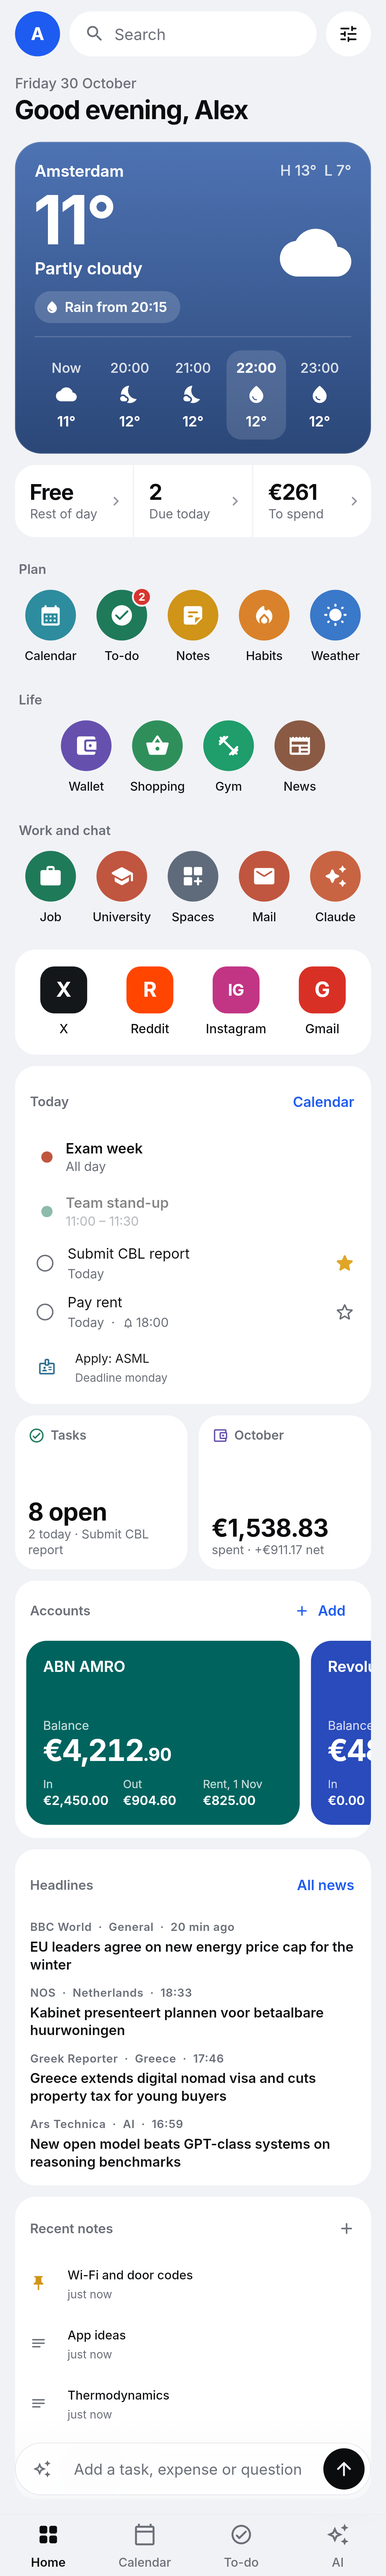
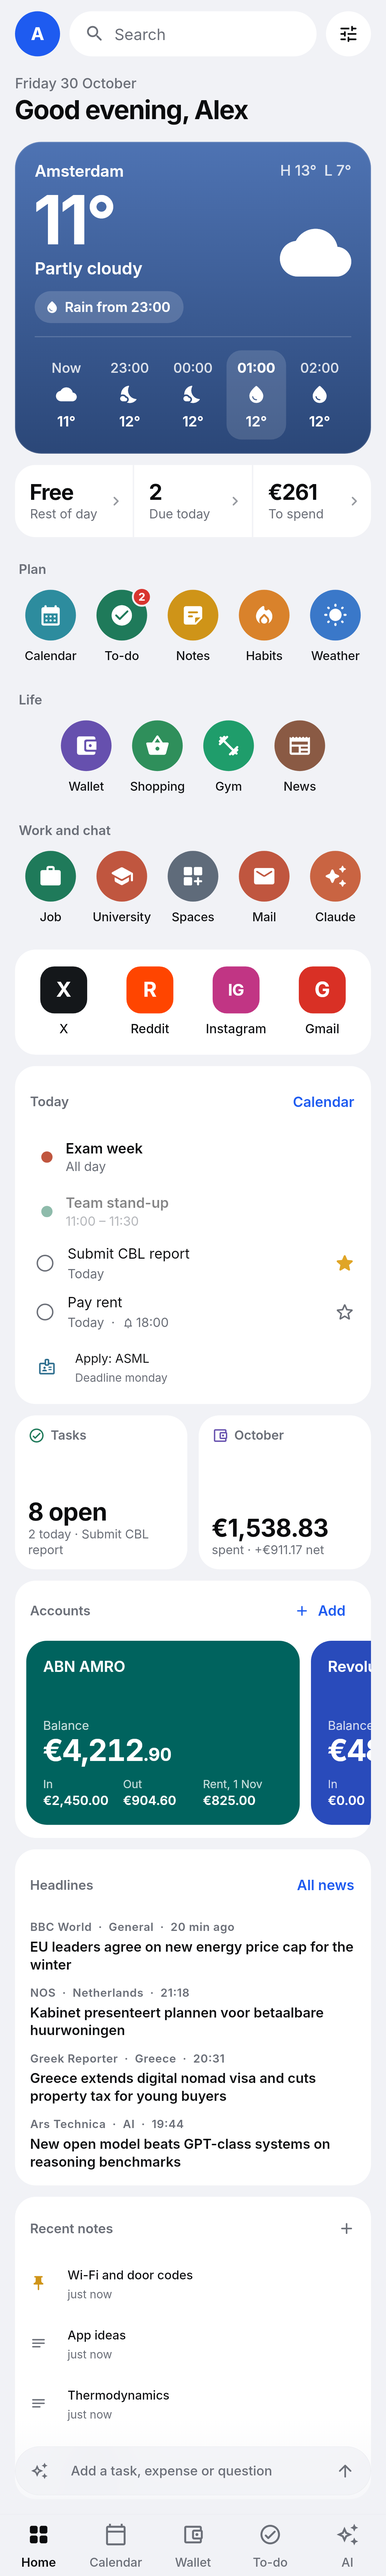
Fresh screenshots, README highlights and docs for the Wallet tab, AI tools, chat history and Job hours
Claude-Session: https://claude.ai/code/session_01Fpoxe4eFwgh2tEbagBqPri

diff --git a/README.md b/README.md
@@ -8,35 +8,47 @@ Everything lives on your own devices. There is no Hub account and no Hub server 
 your phone and PC to share data, one of your own computers acts as the server (see
 [Self-hosting](docs/SELF_HOSTING.md)).
 
-<p>
-  <img src="screenshots/out/phone-light-home.png" width="200" alt="Home">
-  <img src="screenshots/out/phone-light-wallet.png" width="200" alt="Wallet with bank cards">
-  <img src="screenshots/out/phone-light-calendar.png" width="200" alt="Calendar">
-  <img src="screenshots/out/phone-light-shopping.png" width="200" alt="Shopping list by shop">
+<p align="center">
+  <img src="screenshots/out/phone-light-home.png" width="210" alt="Home with weather, today and your apps">
+  <img src="screenshots/out/phone-dark-wallet.png" width="210" alt="Wallet: left to spend and pace">
+  <img src="screenshots/out/phone-dark-calendar.png" width="210" alt="Calendar month view">
+  <img src="screenshots/out/phone-dark-chat.png" width="210" alt="AI chat that can read your data">
 </p>
-<p>
-  <img src="screenshots/out/phone-light-weather.png" width="200" alt="Weather">
-  <img src="screenshots/out/phone-light-todo.png" width="200" alt="To-do">
-  <img src="screenshots/out/phone-light-news.png" width="200" alt="News">
-  <img src="screenshots/out/phone-dark-home.png" width="200" alt="Home in dark mode">
+<p align="center">
+  <img src="screenshots/out/phone-light-job.png" width="210" alt="Job: work days, hours and overtime">
+  <img src="screenshots/out/phone-light-weather.png" width="210" alt="Weather with rain in the next hours">
+  <img src="screenshots/out/phone-light-todo.png" width="210" alt="To-do">
+  <img src="screenshots/out/phone-dark-history.png" width="210" alt="AI chat history with token use">
 </p>
+<p align="center">
+  <img src="screenshots/out/desktop-light-home.png" width="860" alt="Hub on Windows">
+</p>
+
+**Highlights**
+
+- A home screen you arrange like a phone launcher: weather, your day, money and apps up top, widgets below.
+- A Wallet that tells you if you are on track this month, with bills, subscriptions, savings goals and investments.
+- An AI agent that can read your calendar, wallet, tasks, notes and spaces, and adds things only after you tap Add.
+  Use your own Claude plan or any API key (OpenRouter for any model).
+- Work and study spaces: a work log with hours and overtime, important dates, plans and saved files.
+- No account and no cloud. Your data stays on your devices; sync goes through a computer you own.
 
 ## What's inside
 
 | Mini-app | In short |
 | --- | --- |
-| **Home** | A dashboard of widgets. Hold any widget (or tap Edit) to arrange: resize (small, medium, large), change shape, style and colour, drag to move, or remove. Over 15 widget types, including app shortcuts. Tap your profile picture for settings. |
+| **Home** | Weather, your day (free time, tasks due, money left) and your apps on top, then widgets you arrange: tap Edit or hold any widget to resize, reshape, recolour, move or remove it. Tap your profile picture for settings. Back from any tab returns here. |
 | **Weather** | Pick any place or use your location. Buienradar for rain in the next hours (NL/BE), Open-Meteo or Google Weather for the days ahead. |
 | **Calendar** | Day, week, month and an endless agenda. Swipe between periods, several calendars, repeats, reminders, subscribed .ics calendars. |
 | **To-do** | Quick add in plain words ("gym friday 7pm every week !"), reminders with Done and Snooze from the notification, repeating tasks, smart groups. |
 | **Notes** | Coloured notes in a masonry grid, checklists you can tick from the preview, pinning, search. |
-| **Wallet** | A monthly spending target with what is left and a daily allowance, net worth, round-ups into savings, "compared with your usual month" insights, spending by month, budgets, recurring payments and income, bank cards with live balances, savings goals, an investment portfolio with live prices, year overview and CSV import/export. |
+| **Wallet** | Its own tab. What is left to spend this month and whether you are on track, a day-by-day strip with safe to spend today and where the month will end, recurring payments and income, bank cards with live balances, savings goals with on-track checks, an investment portfolio with live prices, year overview and CSV import/export. |
 | **Shopping** | Type everything in one line. Each item goes under the shop where it is usually cheapest, with an integrated AI price check against current offers. |
-| **Job / University / your own** | A space each: important dates with countdowns, meetings, a plan with progress, saved notes, links and files. Job adds a work-day log with holidays left. Create your own spaces too. |
+| **Job / University / your own** | A space each: important dates with countdowns, meetings, a plan with progress, saved notes, links and files. Job adds a work log with hours worked or planned, contract hours, overtime or hours owed, and holidays left. Create your own spaces too. |
 | **News** | Headlines from public RSS feeds across General, Netherlands, Greece, Politics, AI, Tech, Investing, Economy, Sports and Science. Add any feed. |
 | **Mail** | Gmail, Outlook and Proton Mail (through Proton Mail Bridge) over IMAP/SMTP. |
 | **Claude** | Opens the Claude app with a prompt ready. Uses your own Claude plan. |
-| **AI** | Its own tab. Use your own Claude plan (through Claude Code or the Claude app, no API cost) or paste one API key: OpenRouter for any model, or Anthropic, OpenAI, DeepSeek or Llama (Groq or a local Ollama). A chat, a Hub agent that turns a sentence into expenses, notes, tasks or events after you confirm, and an AI price check for the shopping list. Keys stay in the device's secure storage. Personal agents and a DeepSeek-first setup are coming next. |
+| **AI** | Its own tab. Use your own Claude plan (through Claude Code or the Claude app) or paste one API key: OpenRouter for any model, or Anthropic, OpenAI, DeepSeek or Llama. A chat and a Hub agent that reads all your data (calendar, wallet, tasks, notes, spaces) and proposes changes you confirm with Add. Every conversation is kept in History, with token use and cost per chat and per month. Keys stay in the device's secure storage. |
 
 The full tour, screen by screen, is in **[docs/FEATURES.md](docs/FEATURES.md)**.
 
@@ -74,7 +86,7 @@ More in **[docs/BUILDING.md](docs/BUILDING.md)**, including release signing.
 - **SQLite through drift** for all data, with migrations tested against real older databases.
 - **Sync** without a cloud: triggers stamp every row with a global id and edit time; devices exchange changes
   with a server you run, and the newest edit wins.
-- **No accounts, no tracking, no API keys required.** Optional keys (Google Weather) stay on the device.
+- **No accounts, no tracking, no API keys required.** Optional keys (AI, Google Weather) stay in the device's secure storage.
 
 Details in **[docs/ARCHITECTURE.md](docs/ARCHITECTURE.md)**. What leaves your device, and when, is listed in
 **[docs/PRIVACY.md](docs/PRIVACY.md)**.

diff --git a/docs/FEATURES.md b/docs/FEATURES.md
@@ -100,6 +100,10 @@ The layout is saved on the device. **Back to the starting layout** (in edit mode
 
 **Spending**
 
+- **Am I on track?** The top card shows what is left to spend this month and whether you are under or over pace.
+  Below Accounts, **Day by day** has a bar for each day, green dots for no-spend days, **safe to spend today**,
+  where the month will end at this rate, and the bills still to come. Recurring bills are counted as fixed costs
+  first, so the pace only measures everyday spending.
 - Month view with a month picker, a "Now" button and swipe to change month.
 - In, out and net; a six-month trend; spending by category against budgets.
 - **Bank cards:** one card per account (ABN AMRO, Revolut and Eurobank come ready; add more). Set the balance once and Hub keeps it current from the entries booked to that account. Each card shows money in and out this month and the next payment. Open a card to choose which recurring payments go through it and see its activity.
@@ -107,7 +111,8 @@ The layout is saved on the device. **Back to the starting layout** (in edit mode
 - **Import** bank exports: Revolut CSV, ABN AMRO TXT, Eurobank CSV. **Export** everything to CSV.
 - **Year overview** with totals per category and taxes.
 
-**Savings:** goals with targets and deadlines, deposits and withdrawals, how much a month you need.
+**Savings:** goals with targets and deadlines, deposits and withdrawals, how much a month you need, and whether you
+are on track, ahead or behind plan.
 
 **Investing:** holdings (ETFs, stocks, crypto, funds) with live prices from Yahoo Finance, converted to your currency; value, gain and allocation.
 
@@ -136,7 +141,11 @@ Each space has its own calendar and these sections:
 - **Plan:** tasks with a progress bar and inline add (a study plan, a research plan).
 - **Saved:** notes, links and files that belong to the space.
 
-**Job** also has a **work log**: tap a day to mark it worked, worked from home, off, holiday or sick; hold it to add hours and a note. Counters for the month and a yearly summary with holidays left (the allowance is adjustable).
+**Job** also has a **work log**: tap a day to mark it worked, worked from home, off, holiday or sick; hold it to enter
+hours worked (or planned, on future days), start and end times with a break, or a public holiday. Set your contract
+under the tune button, as hours a week or hours per weekday. Hub shows hours worked and planned against expected
+for the month and the week, your overtime balance or the hours still owed, what you need per remaining workday, and
+a balance for the year next to holidays left.
 
 <br clear="right">
 
@@ -173,7 +182,13 @@ Each space has its own calendar and these sections:
 - **Claude Code (my plan)** answers with your own Claude plan through Claude Code (`claude -p`) on your computer, or on
   the laptop running Hub in Server mode when you are on your phone, with Haiku, Sonnet or Opus. You sign in by running
   `claude` once yourself; Hub never handles the login. Setup is in `server/README.md`.
-- Coming soon: your own agents, such as Instinct, working on your Hub.
+- **The Hub agent reads all your data** through tools: calendar for any dates, recurring payments and subscriptions,
+  transactions, balances, savings, investments, notes, tasks, habits, shopping, spaces, the work log and weather.
+  Each answer says what it looked at. Models without tool support get a full snapshot in the prompt instead.
+- **History**: every conversation is kept per mode. Reopen, search, rename or delete them; the empty chat lists the
+  latest three.
+- **Usage**: tokens per message and per conversation, totals for today, this month and all time per model, and cost
+  for OpenRouter models (from OpenRouter's reported cost or its price list). Open it from AI settings.
 
 ## Claude
 

diff --git a/CHANGELOG.md b/CHANGELOG.md
@@ -4,6 +4,25 @@ Builds are numbered by the CI run. Notable changes, newest first.
 
 ## October 2026
 
+### Wallet tab, an agent that knows your data, Job hours
+- **Wallet is a tab** next to Home, Calendar, To-do and AI. Back from any tab goes to Home; back on Home closes the app.
+- **Am I on track?** Wallet's "Day by day" card: a bar per day, no-spend days, safe to spend today, where the month will
+  end, and bills still to come. Rent and other recurring bills count as fixed costs, so an early-month rent payment
+  no longer looks like overspending. Savings goals with a deadline say whether you are ahead or behind plan.
+- **The Hub agent sees everything**: calendar for any dates (all calendars, repeats, all-day events), recurring
+  payments and subscriptions, transactions, balances, savings, investments, notes, tasks with or without dates,
+  habits, shopping, spaces, work log and weather. Changes still wait for your tap on Add.
+- **Chat history**: every conversation is kept, with a History page to reopen, search, rename or delete them.
+- **Token usage**: per message, per conversation, and totals for today, this month and all time, with cost for
+  OpenRouter models.
+- **Job hours**: hours worked or planned per day (or start and end times), contract hours per week or per weekday,
+  and an overtime balance or hours still owed for the week, month and year.
+- **Edit home, reworked**: tap or hold anywhere on a widget, Done sits at the bottom, one damaged widget no longer
+  resets the whole layout, and Weather shows a "Choose a city" card instead of an empty slot.
+- **Widgets open their app after resizing**: at Medium and Large the whole card opens Wallet, Tasks, Habits and so
+  on, not just the small link in the corner.
+- The ask bar on Home uses the same see-through glass and font as the tab bar.
+
 ### Fixes
 - Empty screens scroll instead of overflowing on small phones.
 
